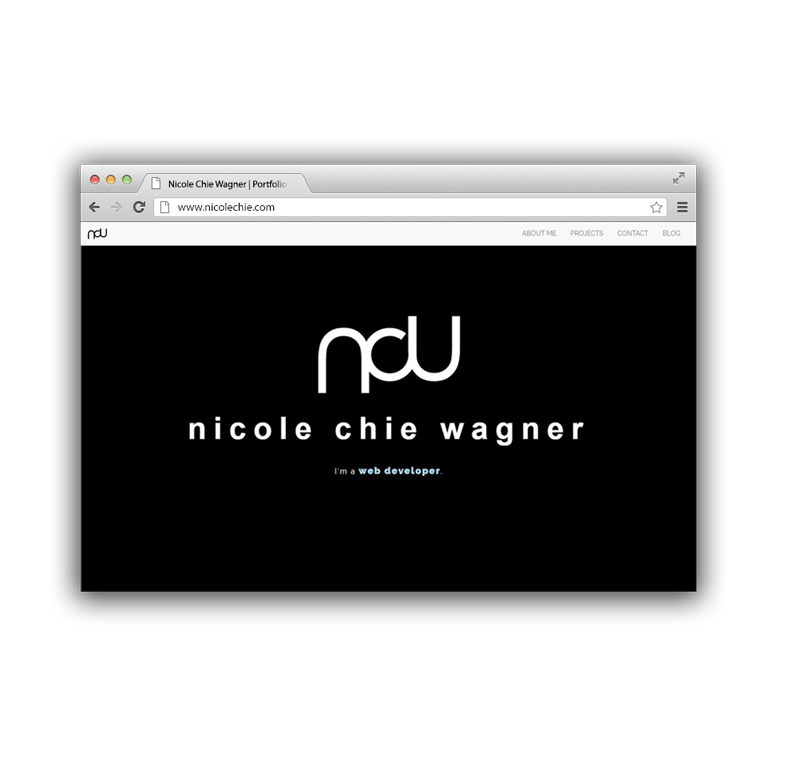
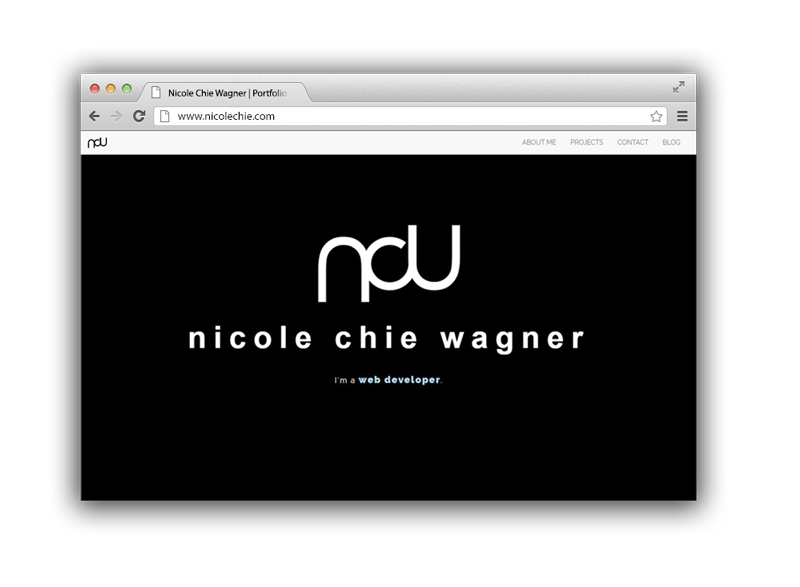
swapped out photos

diff --git a/client/components/home/portfolio.client.controller.js b/client/components/home/portfolio.client.controller.js
@@ -10,7 +10,8 @@ app.controller('PortfolioCtrl', ['$scope', '$modal', '$http', function($scope, $
             link: '',
             github: '',
             category: 'hc.graphic',
-            skillset: ['Adobe Illustrator', 'Adobe InDesign']
+            skillset: ['Adobe Illustrator', 'Adobe InDesign'],
+            description: 'This is a brochure I designed for the Colorado State University Health Network that discusses the health and legal elements that student should be aware of when it comes to marijuana.'
         },
         {
             name: 'Soco Nightlife Flyer',
@@ -19,7 +20,8 @@ app.controller('PortfolioCtrl', ['$scope', '$modal', '$http', function($scope, $
             link: '',
             github: '',
             category: 'hc.graphic',
-            skillset: ['Adobe Photoshop']
+            skillset: ['Adobe Photoshop'],
+            description: 'This is a flyer I did for South of Colfax Nightlife District to promote their resident dancer auditions.'
         },
         {
             name: 'Design Helper App',
@@ -28,7 +30,8 @@ app.controller('PortfolioCtrl', ['$scope', '$modal', '$http', function($scope, $
             link: 'https://limitless-gorge-94190.herokuapp.com/',
             github: 'https://github.com/nicolechie/design-helper',
             category: 'hc.web',
-            skillset: ['HTML5', 'CSS3', 'Bootstrap', 'AngularStrap', 'AngularJS', 'NodeJS', 'MongoDB/Mongoose', 'Express', 'SocketIO', 'Passport']
+            skillset: ['HTML5', 'CSS3', 'Bootstrap', 'AngularStrap', 'AngularJS', 'NodeJS', 'MongoDB/Mongoose', 'Express', 'SocketIO', 'Passport'],
+            description: 'Design Helper is a fast and simple way for web-based designers to visualize and implement different font, font-size, and font-color combination options for the design of a website. Once a user is happy with their chosen font options, design helper will generate the necessary HTML & CSS to add the font styles to their website.  Users can then name and save their design so that they can edit or review it at a later time.'
         },
         {
             name: 'College Avenue Layouts',
@@ -37,7 +40,8 @@ app.controller('PortfolioCtrl', ['$scope', '$modal', '$http', function($scope, $
             link: '',
             github: '',
             category: 'hc.graphic',
-            skillset: ['Adobe InDesign', 'Adobe Photoshop', 'Adobe Illustrator']
+            skillset: ['Adobe InDesign', 'Adobe Photoshop', 'Adobe Illustrator'],
+            description: 'College Avenue is a monthly publication put out by Colorado State University. These are a few layouts I did for them.'
         },
         {
             name: 'Marvel Game App',
@@ -46,7 +50,8 @@ app.controller('PortfolioCtrl', ['$scope', '$modal', '$http', function($scope, $
             link: 'http://nicolechie.github.io/marvel-game/',
             github: 'https://github.com/nicolechie/marvel-game',
             category: 'hc.web',
-            skillset: ['HTML5', 'CSS3', 'Bootstrap', 'JQuery', 'AJAX']
+            skillset: ['HTML5', 'CSS3', 'Bootstrap', 'JQuery', 'AJAX'],
+            description: 'A "game" that loads a group of Marvel comic book characters (currently from the Avengers series) from the Marvel API and displays their image in a grid.  A user can click on any two characters to see who would win in a fight.  The winner is determine by which character has more experience aka which character has been in more comic books according to their Marvel data.'
         },
         {
             name: 'Prescription Bags',
@@ -55,7 +60,8 @@ app.controller('PortfolioCtrl', ['$scope', '$modal', '$http', function($scope, $
             link: '',
             github: '',
             category: 'hc.graphic',
-            skillset: ['Adobe Illustrator', 'Adobe InDesign']
+            skillset: ['Adobe Illustrator', 'Adobe InDesign'],
+            description: 'I designed these prescription bags for the Colorado State University Health Network as part of a presciption drug awareness campaign.'
         },
         {
             name: 'Quiz App',
@@ -64,7 +70,8 @@ app.controller('PortfolioCtrl', ['$scope', '$modal', '$http', function($scope, $
             link: 'http://nicolechie.github.io/quiz-app/" ',
             github: 'https://github.com/nicolechie/quiz-app',
             category: 'hc.web',
-            skillset: ['HTML5', 'CSS3', 'Bootstrap', 'JQuery']
+            skillset: ['HTML5', 'CSS3', 'Bootstrap', 'JQuery'],
+            description: 'Test your nerd knowledge with this simple 5-question quiz app.'
         },
         {
             name: 'Shopping List App',
@@ -73,7 +80,8 @@ app.controller('PortfolioCtrl', ['$scope', '$modal', '$http', function($scope, $
             link: 'http://nicolechie.github.io/shopping-list/',
             github: 'https://github.com/nicolechie/shopping-list',
             category: 'hc.web',
-            skillset: ['HTML5', 'CSS3', 'JQuery']
+            skillset: ['HTML5', 'CSS3', 'JQuery'],
+            description: 'Easily add, delete, and check off items on a grocery list.'
         },
         {
             name: 'Resort 2 Kindness Poster',
@@ -82,7 +90,8 @@ app.controller('PortfolioCtrl', ['$scope', '$modal', '$http', function($scope, $
             link: '',
             github: '',
             category: 'hc.graphic',
-            skillset: ['Adobe Photoshop']
+            skillset: ['Adobe Photoshop'],
+            description: 'A poster designed for Resort2Kindess.'
         },
         {
             name: 'My Portfolio',
@@ -91,11 +100,10 @@ app.controller('PortfolioCtrl', ['$scope', '$modal', '$http', function($scope, $
             link: 'https://nicolechie.herokuapp.com/',
             github: 'https://github.com/nicolechie/portfolio',
             category: 'hc.web',
-            skillset: ['HTML5', 'CSS3', 'Bootstrap', 'AngularStrap', 'AngularJS', 'NodeJS', 'MongoDB/Mongoose', 'Express']
+            skillset: ['HTML5', 'CSS3', 'Bootstrap', 'AngularStrap', 'AngularJS', 'NodeJS', 'MongoDB/Mongoose', 'Express'],
+            description: 'The webiste you are currently on! My portfolio showcases my development and design work and also houses a blog.'
         }
     ];
-    
-    self.projectHover = false;
     
     // Brings up the project modal
     self.showModal = function (project) {

diff --git a/client/components/home/home.html b/client/components/home/home.html
@@ -1,6 +1,6 @@
 <div class="container-fluid">
     <div class="row">
-  	    <div class="col-md-12 introduction text-center tpad70">
+  	    <div class="col-md-12 introduction fullHeight text-center tpad70">
 		  	<img class="img-responsive center-block" src="./images/ncwlogo-white.svg" alt="Nicole Logo" width="300">
 		  	<h1 class="intro">nicole chie wagner</h1>
 			<p class="intro-subtext">I'm a <span class="text-primary">web developer</span>.</p>
@@ -29,7 +29,7 @@
 						    <img class="img-responsive" src="{{ project.thumb }}" />
 						    <div class="after aligner">
 						    	<span class="content aligner-item">
-						    	<a type="button" href="{{ project.link }}" target="_blank"><i class="fa fa-link fa-3x" aria-hidden="true"></i></a>
+						    	<a ng-show="{{ project.category }} !== 'web'" type="button" href="{{ project.link }}" target="_blank"><i class="fa fa-link fa-3x" aria-hidden="true"></i></a>
 						    	
 						    	<a data-ng-click="pc.showModal(project)" type="button" role="button" data-animation="am-fade-and-scale" data-placement="center"><i class="fa fa-search fa-3x" aria-hidden="true"></i></a>
 						    	</span>

diff --git a/client/components/home/project-details.template.html b/client/components/home/project-details.template.html
@@ -15,11 +15,18 @@
                     </div>
                 </div>
             </div>
+            </hr>
+            <div class="row">
+                <div class="col-md-10 col-md-offset-1">
+                    <p class="text-left"> {{ pc.project.description }}</p>
+                </div>
+            </div>
             <div class="text-center bmargin15">
                 <a type="button" class="btn btn-primary btn-sm" href="{{ pc.project.github }}" target="_blank" ng-show="pc.project.github !==''"><i class="fa fa-github" aria-hidden="true"></i> View Github </a>
                 <a type="button" class="btn btn-primary btn-sm" href="{{ pc.project.link }}" target="_blank" ng-show="pc.project.link !==''">View Website</a>
             </div>
             <div class="modal-footer">
+                
             </div>
         </div>
     </div>

diff --git a/client/css/style.css b/client/css/style.css
@@ -296,5 +296,8 @@ ul.projects {
     margin-bottom: 5em;
   }
   
+  .fullHeight {
+	height: auto;
+  }
 
 }
